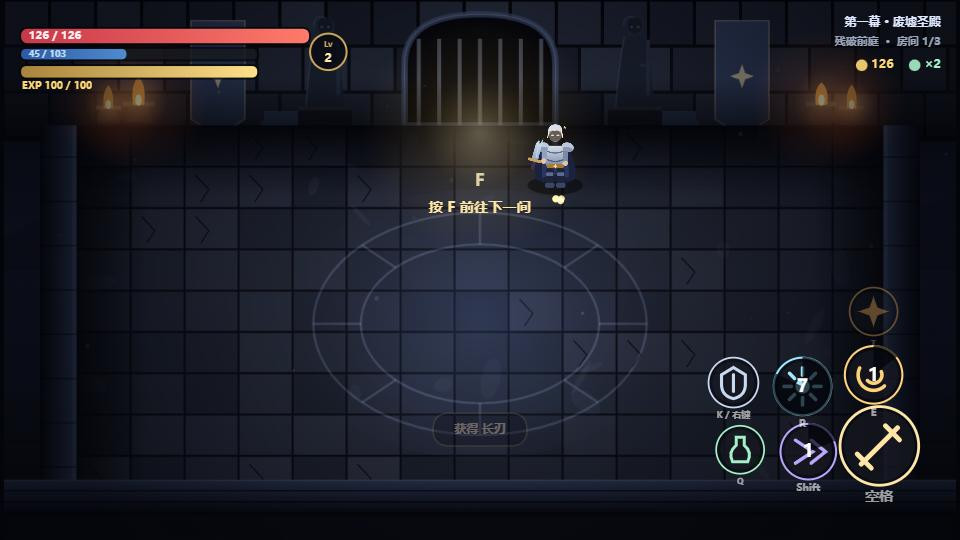
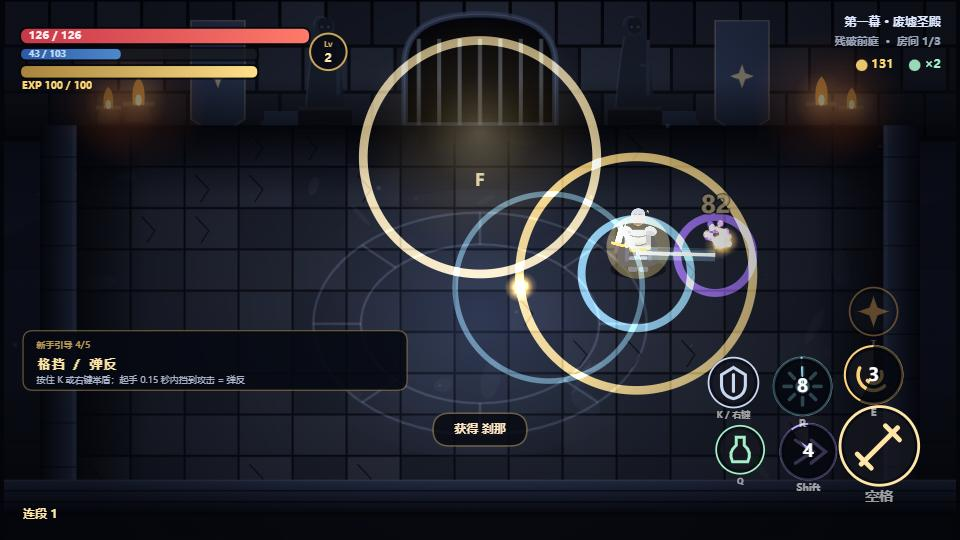
Publish 星辉幻境

diff --git a/starfall-realm/index.html b/starfall-realm/index.html
@@ -4,7 +4,7 @@
 <meta http-equiv="Content-Security-Policy" content="default-src 'none'; img-src data: blob:; media-src data: blob:; font-src data:; style-src 'unsafe-inline'; script-src 'unsafe-inline'; connect-src 'none'; form-action 'none'">
 <title>星辉幻境</title>
 <style>html,body{margin:0;width:100%;height:100%;height:100dvh;overflow:hidden;background:#000;user-select:none;-webkit-user-select:none;-webkit-touch-callout:none;overscroll-behavior:none}canvas{display:block;width:100vw;height:100vh;height:100dvh;touch-action:none;outline:none;-webkit-tap-highlight-color:transparent}</style></head><body><canvas id="game" tabindex="0"></canvas>
[2 lines of base64/hex data omitted]
 <script>/* 星辉幻境 · 2.5D 锁房动作 RPG
  * 依据《星辉幻境》玩法最终版 v1.0 做成的一局可玩切片：
  * 锁房战斗 / 三段普攻 / 闪避与完美闪避 / 旋风斩 / 圣光惩戒 / 药水
@@ -36,7 +36,7 @@
     ultimateCost: 60, ultimateCooldown: 30,
     bossEnrage: 90, goldLossOnDeath: 0.1, ngPlusScale: 0.15,
     startAct: 1, startLevel: 1, startPotions: 2, startRoom: 0, godMode: 0, touchButtons: 1,
-    debugEnding: 0
+    debugEnding: 0, debugEquip: 0
   };
   var R = {};
   (function () {
@@ -100,6 +100,8 @@
   var hitstop = 0;
   var slowmo = 0;
   var banner = null;         // {text, sub, t, life}
+  var subtitle = null;       // {name, text, sub, t, life, cps} 底部字幕条（Boss 台词）
+  var tutorial = { active: false, step: 0, t: 0, doneAt: -1, hit: {} };
   var toast = null;
   var flashWhite = 0;
   var vignettePulse = 0;
@@ -490,6 +492,45 @@
   });
 
   function toastMsg(t) { toast = { text: t, t: 0, life: 1.6 }; }
+
+  /* 底部字幕条：Boss 台词逐字显示（替代原来的居中横幅） */
+  function say(name, text, sub, life) {
+    subtitle = { name: name, text: text, sub: sub || '', t: 0, life: life || 4.8, cps: 24 };
+  }
+
+  /* 新手引导：首次进第一关时逐步提示，做过对应动作即进入下一步 */
+  var TUTORIAL_STEPS = [
+    { key: 'move', title: '移动', tip: 'WASD / 方向键，手机上推左半屏摇杆' },
+    { key: 'attack', title: '普攻 · 三段', tip: '空格 —— 第三段是下劈，带击退与顿帧' },
+    { key: 'dodge', title: '闪避', tip: 'Shift —— 有短暂无敌帧，贴脸躲过会触发完美闪避' },
+    { key: 'guard', title: '格挡 / 弹反', tip: '按住 K 或右键举盾；起手 0.15 秒内挡到攻击 = 弹反' },
+    { key: 'skill', title: '技能', tip: 'E 旋风 · R 惩戒 · Q 药水 · T 终结（15 级解锁）' }
+  ];
+  var TUTORIAL_DONE = null;
+  function tutorialSeen() {
+    if (TUTORIAL_DONE === null) {
+      var m = loadMeta();
+      TUTORIAL_DONE = !!m.tutorialDone;
+    }
+    return TUTORIAL_DONE;
+  }
+  function tutMark(k) {
+    if (tutorial.active) tutorial.hit[k] = true;
+  }
+  function tutAdvance() {
+    tutorial.step++;
+    tutorial.t = 0;
+    tutorial.doneAt = -1;
+    if (tutorial.step >= TUTORIAL_STEPS.length) {
+      tutorial.active = false;
+      TUTORIAL_DONE = true;
+      var m = loadMeta();
+      m.tutorialDone = true;
+      m.codex = getCodex();
+      saveMeta(m);
+      toastMsg('新手引导完成 · 按 P 暂停可查看全部操作');
+    }
+  }
 
   /* ============================================================
    * 6b. 手柄：左摇杆移动，A 普攻 / B 闪避 / X 旋风 / Y 惩戒 / LB 药水 / RB 终结
@@ -1394,6 +1435,15 @@
       mode = 'ending';
       phase = 'won';
     }
+    // 调试钩子：rules.debugEquip = 1 直接打开回城装备面板（带几件测试装备）
+    if (R.debugEquip) {
+      run.bag = [makeItem(3, 2), makeItem(2, 1), makeItem(1, 0), makeItem(4, 2)];
+      run.equipped.weapon = makeItem(2, 0);
+      story = [];
+      storyIndex = 0;
+      storyAfter = function () { mode = 'hub'; hub.sub = 'equip'; buildHubRows(); };
+      mode = 'story';
+    }
   }
 
   function pickEndingAffix(ng) {
@@ -1475,7 +1525,14 @@
     staticSeed = 1000 + run.act * 37 + run.room * 11;
     buildStatic();
     mode = 'room';
-    if (room.type === 'boss') { sfx.boss(); }
+    if (room.type === 'boss') { sfx.boss(); say('魔王 · 卡奥斯', '又有虫子爬上王座了。', '终幕 · 王座之厅', 4.6); }
+    if (!tutorial.active && !tutorialSeen() && run.act === 1 && run.rooms === 0 && room.type !== 'boss') {
+      tutorial.active = true;
+      tutorial.step = 0;
+      tutorial.t = 0;
+      tutorial.doneAt = -1;
+      tutorial.hit = {};
+    }
     saveGame();
   }
 
@@ -2004,6 +2061,7 @@
     hero.atkDir = attackAim();
     hero.face = hero.atkDir;
     sfx.whiff();
+    tutMark('attack');
   }
 
   function performSwing() {
@@ -2066,6 +2124,7 @@
       hazards.push({ type: 'trap', x: hero.x, y: hero.y, r: 54, life: 3, age: 0, dmg: 0, slow: 1 });
     }
     sfx.dodge();
+    tutMark('dodge');
   }
 
   function perfectDodge() {
@@ -2126,6 +2185,7 @@
     hero.wwTick = 0;
     hero.atkTimer = 0;
     sfx.ww();
+    tutMark('skill');
   }
 
   function whirlwindTick() {
@@ -2195,6 +2255,7 @@
     hitstop = Math.max(hitstop, 0.09);
     shake = Math.max(shake, 8);
     sfx.rb();
+    tutMark('skill');
   }
 
   function doUltimate() {
@@ -2218,6 +2279,7 @@
     flashWhite = 0.25;
     shake = 18; hitstop = 0.14;
     sfx.ult();
+    tutMark('skill');
   }
 
   function doPotion() {
@@ -2595,7 +2657,7 @@
     if (room.fightTime > R.bossEnrage && !e.enraged) {
       e.enraged = true;
       e.dmg *= 1.5;
-      banner = { text: '卡奥斯 · 狂暴', sub: '星辉核心在燃烧', t: 0, life: 3 };
+      say('卡奥斯', '那就一起烧成灰吧。', '狂暴 · 星辉核心在燃烧', 5);
       flashWhite = 0.3; shake = 20;
       sfx.boss();
     }
@@ -2707,10 +2769,10 @@
       e.cool = 0.8;
       projectiles.length = 0;
       if (want === 2) {
-        banner = { text: '第二阶段 · 王座之影', sub: '卡奥斯撕开了自己的披风', t: 0, life: 3 };
+        say('卡奥斯', '这顶王冠……本来就该是我的。', '第二阶段 · 王座之影', 5);
         e.dmg *= 1.1;
       } else {
-        banner = { text: '第三阶段 · 星辉核心', sub: '“你也是来夺走它的吗？”', t: 0, life: 3.2 };
+        say('卡奥斯', '你也是来夺走它的吗？', '第三阶段 · 星辉核心', 5.2);
         e.dmg *= 1.15; e.speed *= 1.15;
       }
       effects.push({ type: 'ring', x: e.x, y: e.y, r: 20, max: 420, life: 0.8, age: 0, color: '#ff8a4a' });
@@ -2740,6 +2802,18 @@
    * ============================================================ */
   function update(rdt) {
     if (banner) { banner.t += rdt; if (banner.t >= banner.life) banner = null; }
+    if (subtitle) { subtitle.t += rdt; if (subtitle.t >= subtitle.life) subtitle = null; }
+    if (tutorial.active && mode === 'room') {
+      tutorial.t += rdt;
+      var tst = TUTORIAL_STEPS[tutorial.step];
+      if (tst && tutorial.doneAt < 0) {
+        if (tst.key === 'move' && Math.hypot(hero.vx, hero.vy) > 60) tutorial.doneAt = tutorial.t;
+        else if (tst.key === 'guard' && hero.guard) tutorial.doneAt = tutorial.t;
+        else if (tutorial.hit[tst.key]) tutorial.doneAt = tutorial.t;
+      }
+      if (tutorial.doneAt >= 0 && tutorial.t - tutorial.doneAt > 0.55) tutAdvance();
+      else if (tutorial.doneAt < 0 && tutorial.t > 11) tutAdvance();
+    }
     if (toast) { toast.t += rdt; if (toast.t >= toast.life) toast = null; }
     if (flashWhite > 0) flashWhite = Math.max(0, flashWhite - rdt * 2.4);
     if (vignettePulse > 0) vignettePulse = Math.max(0, vignettePulse - rdt * 1.6);
@@ -4648,6 +4722,46 @@
     }
   }
 
+  /* 底部字幕条：黑条 + 逐字显示，Boss 台词用 */
+  function drawSubtitleBar(c, s) {
+    if (!subtitle) return;
+    var w = c.w - 240 * s, h = 54 * s, x0 = 24 * s, y0 = c.h - 152 * s;
+    if (w < 280 * s) { w = c.w - 40 * s; x0 = 20 * s; }
+    ctx.save();
+    ctx.fillStyle = 'rgba(4,6,12,0.9)';
+    roundRect(ctx, x0, y0, w, h, 8); ctx.fill();
+    ctx.strokeStyle = 'rgba(201,165,90,0.35)'; ctx.lineWidth = 1; ctx.stroke();
+    ctx.restore();
+    var shown = Math.min(subtitle.text.length, Math.floor(subtitle.t * subtitle.cps));
+    var line = subtitle.text.slice(0, shown);
+    txt(subtitle.name, x0 + 16 * s, y0 + 17 * s, 10 * s, '#ffd874');
+    if (subtitle.sub) txt(subtitle.sub, x0 + w - 14 * s, y0 + 17 * s, 9.5 * s, 'rgba(190,200,225,0.62)', 'right', 'normal');
+    txt(line, x0 + 16 * s, y0 + 41 * s, 13.5 * s, '#f4f7ff', 'left', 'bold', '"Songti SC", "SimSun", "Microsoft YaHei", serif');
+    if (shown < subtitle.text.length && Math.floor(subtitle.t * 6) % 2 === 0) {
+      ctx.font = 'bold ' + Math.round(13.5 * s) + 'px "Songti SC", "SimSun", "Microsoft YaHei", serif';
+      var tw = ctx.measureText(line).width;
+      ctx.fillStyle = 'rgba(255,230,166,0.85)';
+      ctx.fillRect(x0 + 16 * s + tw + 2 * s, y0 + 31 * s, 6 * s, 12 * s);
+    }
+  }
+
+  /* 新手引导卡片：左下角，避开居中的幕间横幅 */
+  function drawTutorialCard(c, s) {
+    if (!tutorial.active) return;
+    var st = TUTORIAL_STEPS[tutorial.step];
+    if (!st) return;
+    var w = Math.min(400 * s, c.w * 0.62), h = 62 * s;
+    var x = 24 * s, y = c.h - 218 * s;
+    ctx.save();
+    ctx.fillStyle = 'rgba(6,9,18,0.9)';
+    roundRect(ctx, x, y, w, h, 10); ctx.fill();
+    ctx.strokeStyle = 'rgba(201,165,90,0.5)'; ctx.lineWidth = 1.2; ctx.stroke();
+    ctx.restore();
+    txt('新手引导 ' + (tutorial.step + 1) + '/' + TUTORIAL_STEPS.length, x + 14 * s, y + 16 * s, 9.5 * s, 'rgba(201,165,90,0.9)');
+    txt(st.title, x + 14 * s, y + 35 * s, 14 * s, '#ffe6a6', 'left', 'bold', '"Songti SC", "SimSun", serif');
+    txt(st.tip, x + 14 * s, y + 52 * s, 9.5 * s, 'rgba(205,215,240,0.82)', 'left', 'normal');
+  }
+
   function drawHUD() {
     if (mode === 'title') return;
     var c = cssSize(), s = uiScale();
@@ -4735,6 +4849,10 @@
       txt('连段 ' + hero.combo, 24 * s, c.h - 26 * s, 13 * s, '#ffe6a6');
     }
 
+    // Boss 字幕条 + 新手引导
+    drawSubtitleBar(c, s);
+    drawTutorialCard(c, s);
+
     // Boss 血条
     if (room && room.type === 'boss' && enemies.length) {
       var b = null;
@@ -4784,7 +4902,7 @@
     }
 
     // 操作提示
-    if (runTime < 16 && room && !room.cleared) {
+    if (runTime < 16 && room && !room.cleared && room.type !== 'boss') {
       ctx.save();
       ctx.globalAlpha = clamp((16 - runTime) / 3, 0, 1) * 0.75;
       txt('WASD 移动 · 空格 普攻 · Shift 闪避 · K/右键 格挡 · E 旋风 · R 惩戒 · Q 药水', 24 * s, c.h - 54 * s, 11.5 * s, 'rgba(200,214,240,0.9)');
@@ -5069,19 +5187,31 @@
     }
     for (i = 0; i < run.bag.length && i < BAG_MAX; i++) {
       var bagItem = run.bag[i];
-      var rowY = ly + i * 28 * s;
+      var rowY = ly + i * 30 * s;
       var canUse = run.level >= bagItem.ilvl;
-      ctx.fillStyle = canUse ? 'rgba(24,30,44,0.85)' : 'rgba(20,20,26,0.8)';
-      roundRect(ctx, x + 26 * s, rowY, lw - 32 * s, 26 * s, 6); ctx.fill();
-      ctx.strokeStyle = rgba(QUALITY[bagItem.rarity].color, canUse ? 0.55 : 0.2);
-      ctx.lineWidth = 1; ctx.stroke();
-      txt(String(i + 1), x + 36 * s, rowY + 14 * s, 11 * s, 'rgba(255,255,255,0.5)');
-      txt(bagItem.name, x + 52 * s, rowY + 14 * s, 10 * s, canUse ? QUALITY[bagItem.rarity].color : 'rgba(150,150,160,0.55)');
       var baf = affixOf(bagItem);
-      txt(baf ? baf.desc : '', x + 190 * s, rowY + 14 * s, 8.8 * s, 'rgba(170,180,200,0.65)', 'left', 'normal');
-      txt(canUse ? 'Lv.' + bagItem.ilvl : '需 Lv.' + bagItem.ilvl, x + lw - 26 * s, rowY + 14 * s, 9.5 * s,
+      var curEq = run.equipped[bagItem.slot];
+      var diff = itemScore(bagItem) - itemScore(curEq);
+      var better = diff > 0.001, worse = diff < -0.001;
+      ctx.fillStyle = canUse ? 'rgba(24,30,44,0.85)' : 'rgba(20,20,26,0.8)';
+      roundRect(ctx, x + 26 * s, rowY, lw - 32 * s, 28 * s, 6); ctx.fill();
+      ctx.strokeStyle = !canUse ? rgba(QUALITY[bagItem.rarity].color, 0.2)
+        : (better ? 'rgba(110,231,160,0.75)' : rgba(QUALITY[bagItem.rarity].color, 0.45));
+      ctx.lineWidth = canUse && better ? 1.6 : 1;
+      ctx.stroke();
+      txt(String(i + 1), x + 36 * s, rowY + 12 * s, 10.5 * s, 'rgba(255,255,255,0.5)');
+      txt(bagItem.name, x + 52 * s, rowY + 12 * s, 9.6 * s, canUse ? QUALITY[bagItem.rarity].color : 'rgba(150,150,160,0.55)');
+      txt(canUse ? 'Lv.' + bagItem.ilvl : '需 Lv.' + bagItem.ilvl, x + lw - 26 * s, rowY + 12 * s, 9 * s,
         canUse ? 'rgba(190,200,220,0.75)' : '#ff8a7a', 'right');
-      uiRects.push({ id: 'bag' + i, x: x + 26 * s, y: rowY, w: lw - 32 * s, h: 26 * s });
+      // 与当前槽位对比：↑ 变强 / ↓ 变弱 / ＝ 持平
+      var arrow = better ? '↑' : (worse ? '↓' : '＝');
+      var cmpCol = better ? '#6ee7a0' : (worse ? '#ff8a7a' : 'rgba(190,200,220,0.65)');
+      var cmpTxt = curEq
+        ? arrow + ' 强度 ' + (diff > 0 ? '+' : '') + diff.toFixed(2) + ' · ' + (baf ? baf.name : '')
+        : arrow + ' 空槽位 · ' + (baf ? baf.desc : '');
+      txt(cmpTxt, x + 52 * s, rowY + 23 * s, 8.6 * s, cmpCol, 'left', 'normal');
+      if (canUse && better) txt('推荐', x + lw - 26 * s, rowY + 23 * s, 8.6 * s, '#6ee7a0', 'right');
+      uiRects.push({ id: 'bag' + i, x: x + 26 * s, y: rowY, w: lw - 32 * s, h: 28 * s });
     }
     txt('数字键 / 点击 装备 · Esc 返回', x + 26 * s, y + h - 20 * s, 10.5 * s, 'rgba(170,180,210,0.55)');
   }
@@ -5381,7 +5511,7 @@
     var c = cssSize(), s = uiScale();
     dim(0.66);
     txt('暂停', c.w / 2, c.h * 0.3, 34 * s, '#ffffff', 'center', 'bold', '"Songti SC", "SimSun", serif');
-    txt('WASD 移动 · 空格 普攻（三段） · Shift 闪避（完美闪避触发慢动作）', c.w / 2, c.h * 0.42, 13 * s, 'rgba(215,224,244,0.85)', 'center');
+    txt('WASD 移动 · 空格 普攻（三段） · Shift 闪避 · K/右键 格挡（起手可弹反）', c.w / 2, c.h * 0.42, 13 * s, 'rgba(215,224,244,0.85)', 'center');
     txt('E 旋风斩 · R 圣光惩戒 · Q 药水 · T 终结技 · F 门/交互 · M 静音', c.w / 2, c.h * 0.42 + 26 * s, 12 * s, 'rgba(215,224,244,0.7)', 'center');
     txt('P / Esc 继续', c.w / 2, c.h * 0.62, 14 * s, '#ffe6a6', 'center');
   }
@@ -5649,6 +5779,7 @@
   };
 
   function hubAuto() {
+    if (R.debugEquip && hub.sub) return;
     if (hub.sub === 'talent') {
       var line = run.talentLine || 'star';
       pickTalent(line);
